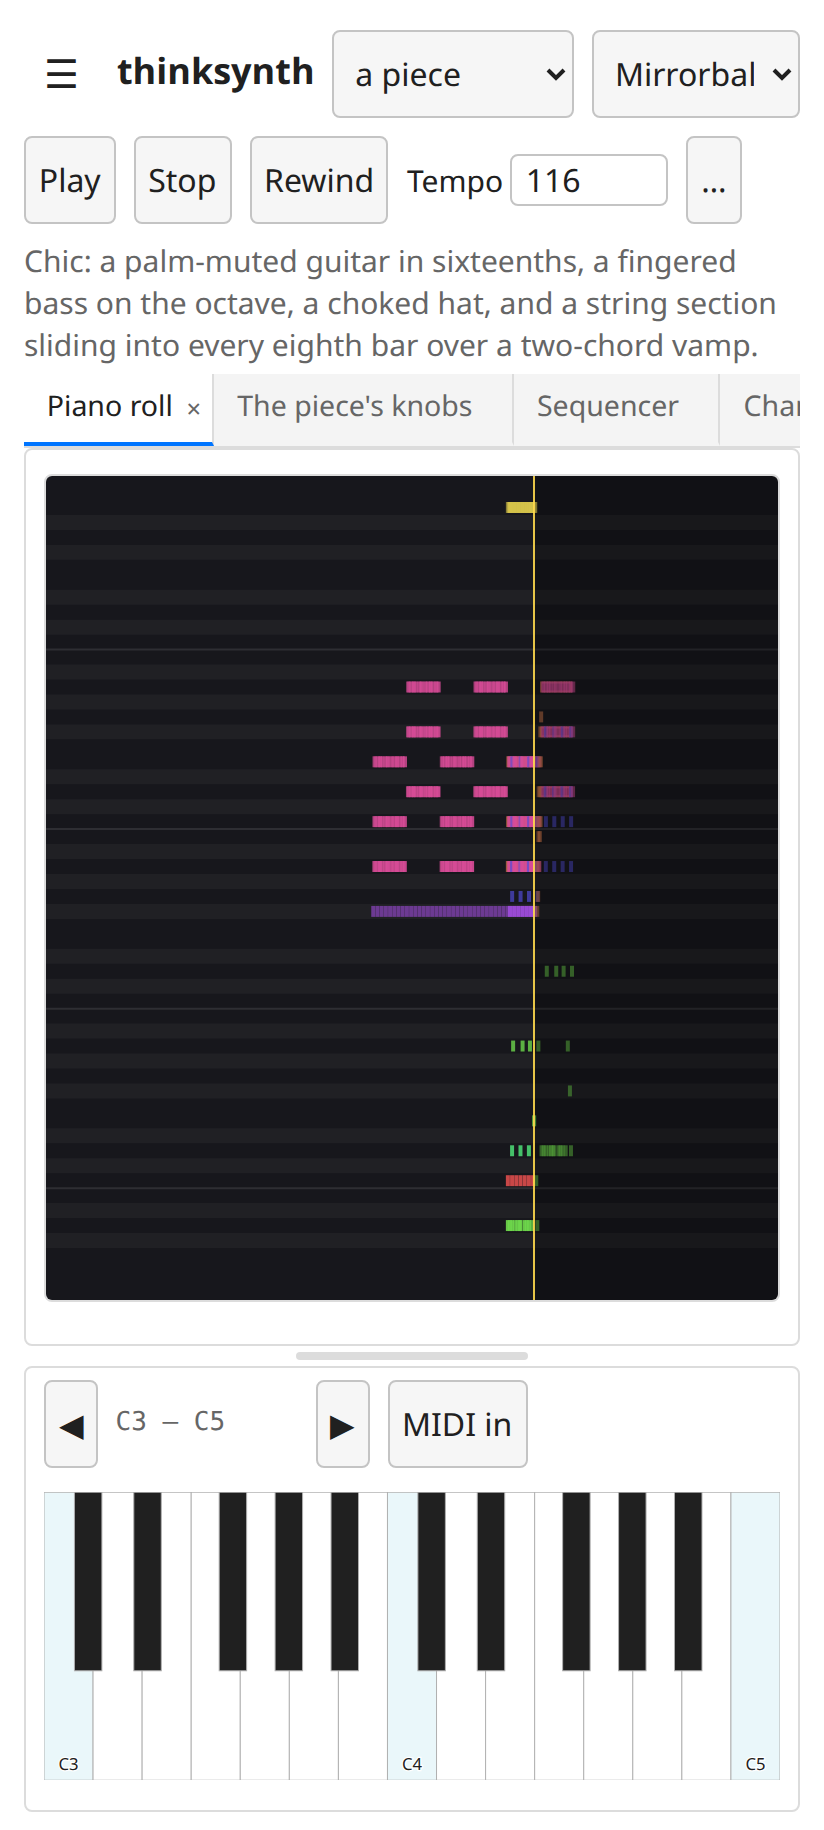
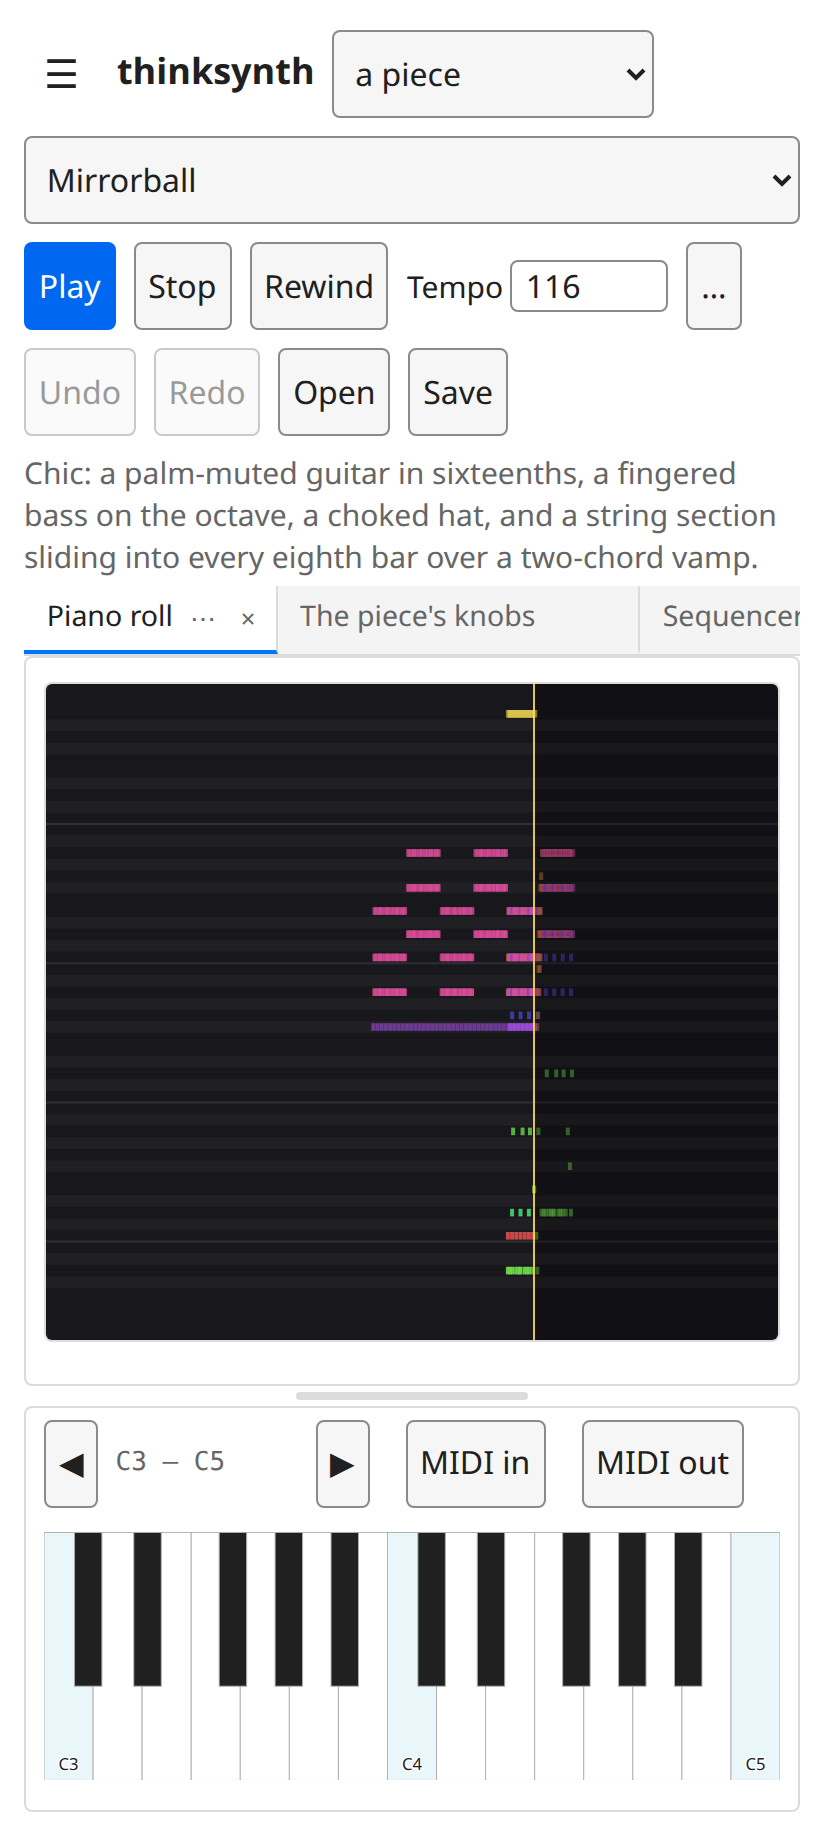
docs: new screenshots, the band among them, by shotbox 0.4.3
Every picture retaken from master. The band, which the README did not
show, is web-band.png: village.gen with the tune an octave up and the
bass's pad moved. shotbox is 0.4.3 from npm, and its Python module now
comes from PyPI rather than a checkout on PYTHONPATH.

diff --git a/scripts/screenshots.py b/scripts/screenshots.py
@@ -17,8 +17,9 @@ BUILD_DIR is a native build (build/), OUT_DIR where the pictures go
 Taken with shotbox (https://github.com/mishan/shotbox) in a sealed
 session: its own X display, D-Bus and scratch home, so the window comes
 up at a first run's size and layout, with GTK's own defaults rather than
-whoever runs this. Its Python module has to be importable: a checkout's
-root on PYTHONPATH.
+whoever runs this. Its Python module has to be importable: `pip install
+shotbox' into a venv made with --system-site-packages, for GTK's
+bindings.
 
 The audio is a real stream, into scripts/headless.sh's null sink, since a
 piece's transport is clocked by the device: -d none would draw a piano
@@ -50,8 +51,7 @@ if not os.environ.get("THINK_HEADLESS"):
 try:
     import shotbox
 except ImportError:
-    sys.exit("screenshots.py: no shotbox module; put a checkout of "
-             "https://github.com/mishan/shotbox on PYTHONPATH")
+    sys.exit("screenshots.py: no shotbox module; pip install shotbox")
 
 BUILD = os.path.abspath(sys.argv[1] if len(sys.argv) > 1
                         else os.path.join(TOP, "build"))

diff --git a/README.md b/README.md
@@ -37,6 +37,12 @@ playing the same piece, and on a phone.
 <img src="docs/screenshots/web-phone.png" alt="The web page on a phone, the roll in front" width="24%">
 </p>
 
+And a piece played as a band, in the browser: `gen/village.gen`'s players
+as cards, each with a pad from calm to busy and steady to wandering, its
+octave, and the picture it plays from.
+
+![The web page's band, playing village.gen](docs/screenshots/web-band.png)
+
 The pictures are taken by `scripts/screenshots.py` (the desktop) and
 `wasm/web/screenshots.mjs` (the browser), with
 [shotbox](https://github.com/mishan/shotbox) in a sealed session: a
